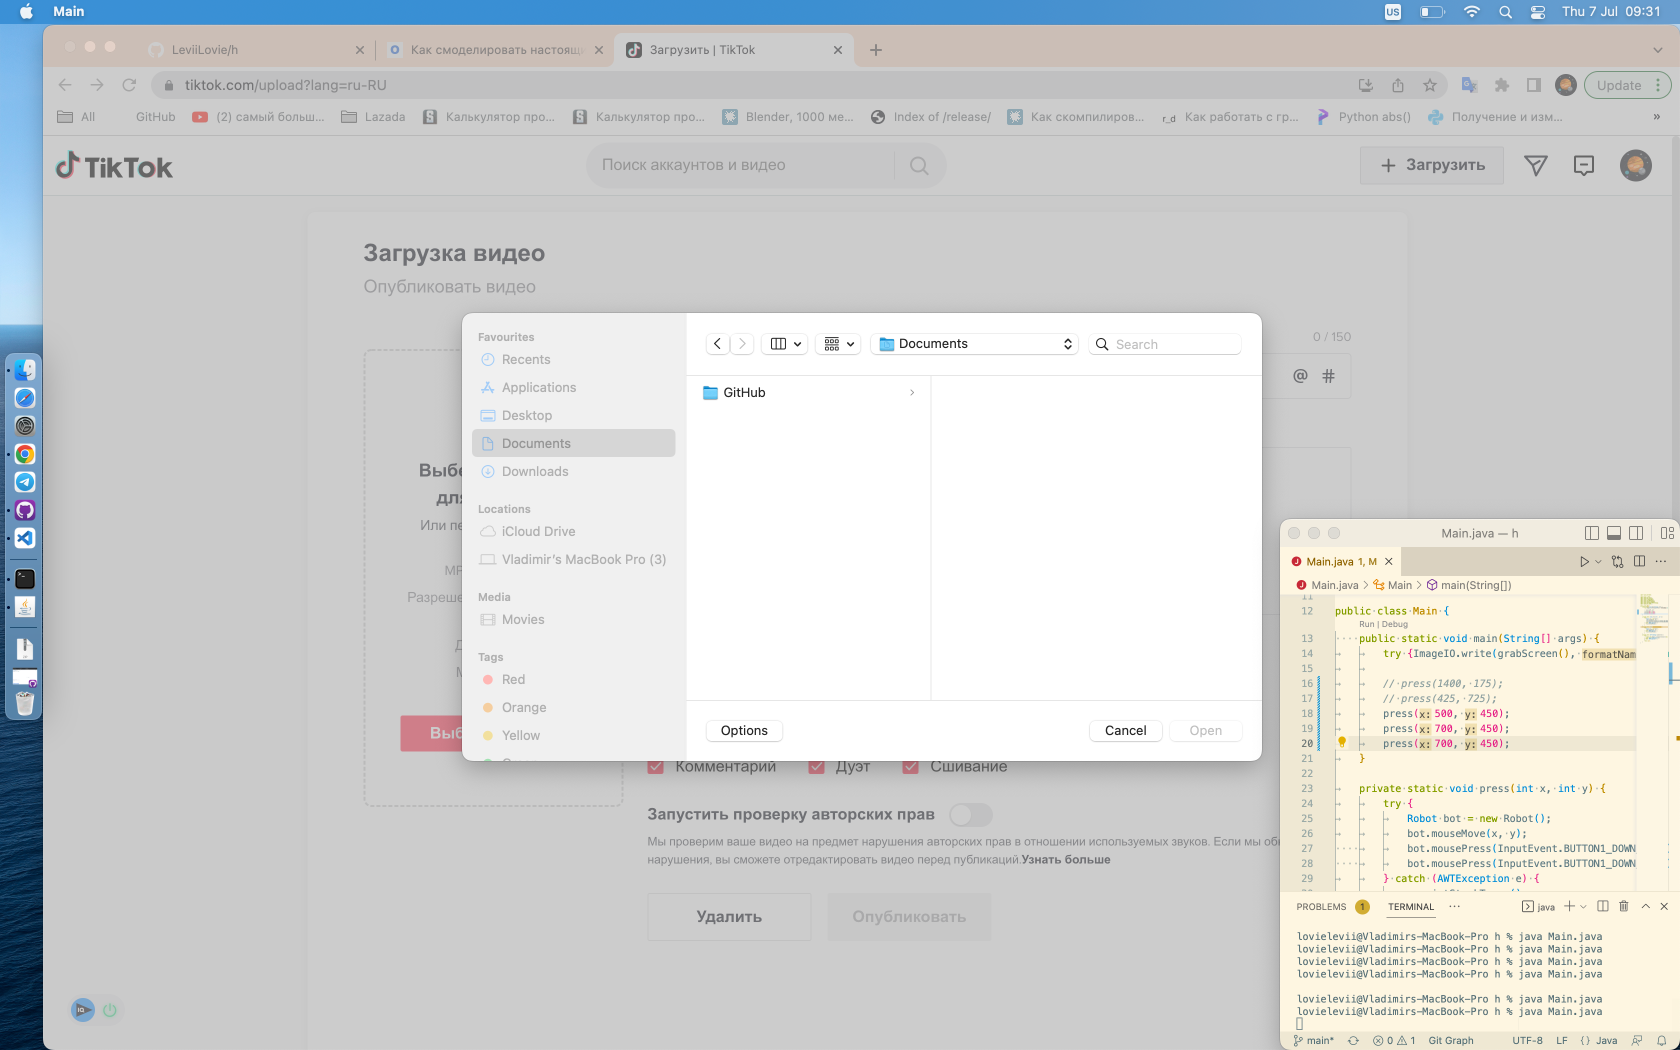
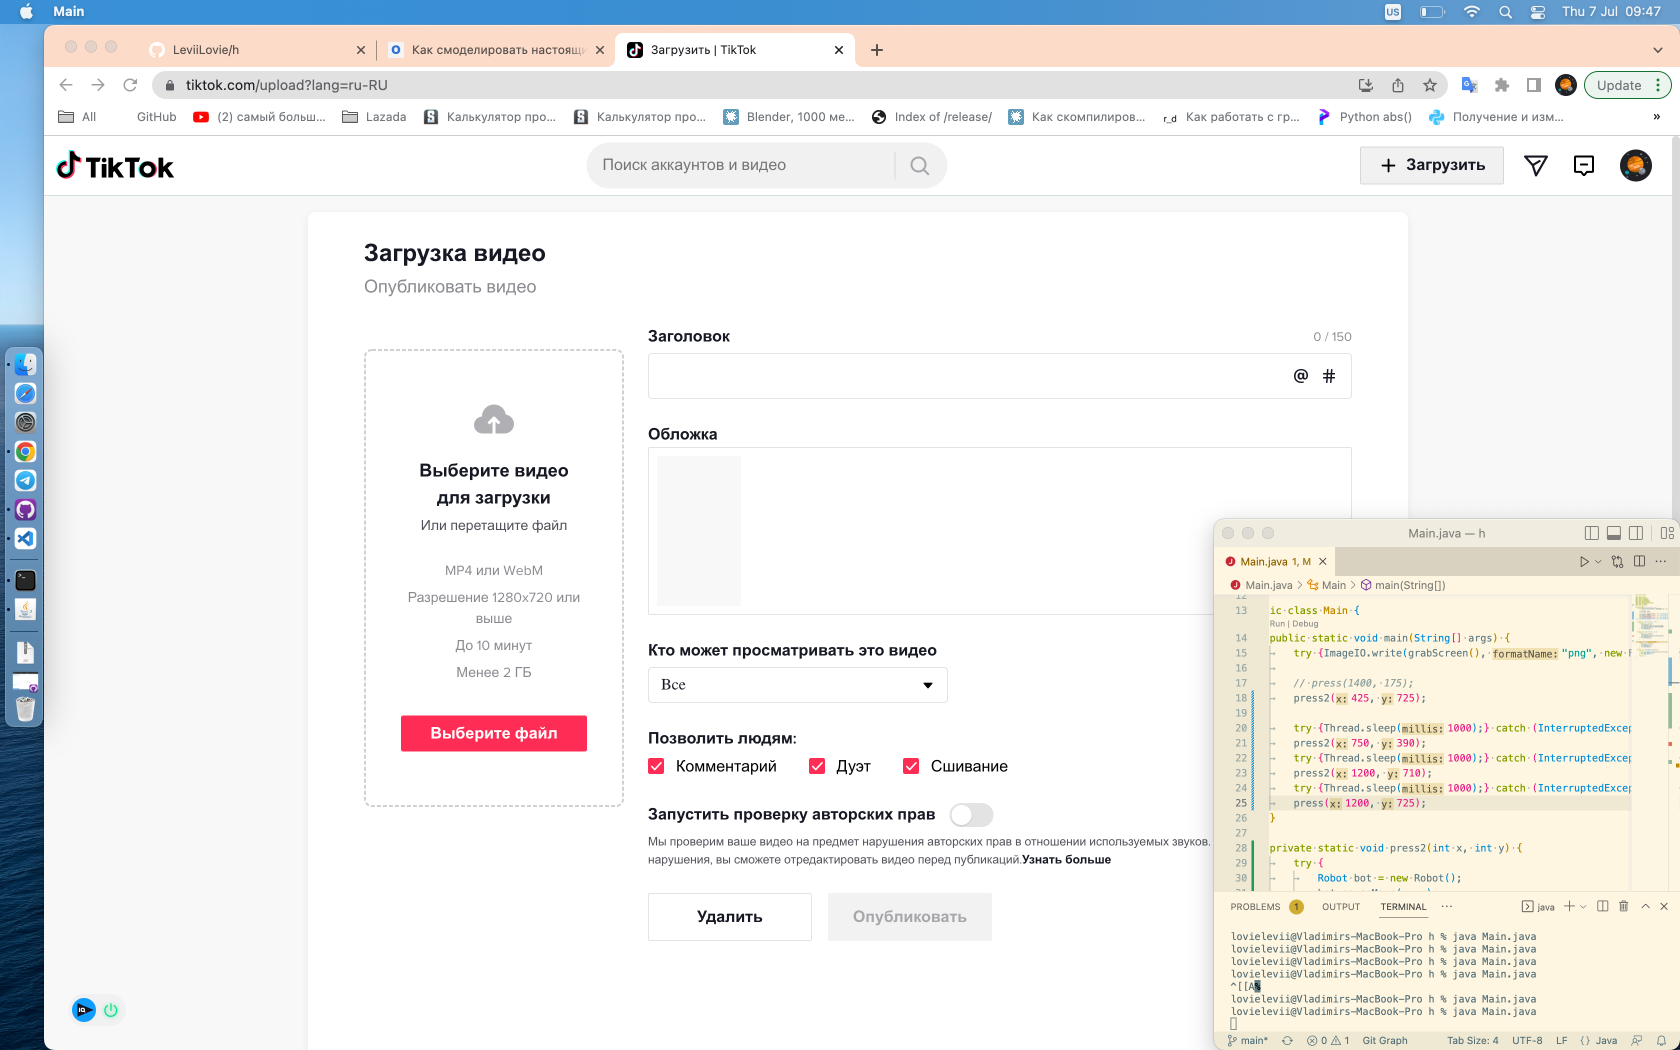
global commit

diff --git a/Main.java b/Main.java
@@ -8,18 +8,24 @@ import java.awt.AWTException;
 import javax.imageio.ImageIO;
 import java.awt.image.BufferedImage;
 import java.awt.event.*;
+import java.lang.Thread;
 
 public class Main {
     public static void main(String[] args) {
 		try {ImageIO.write(grabScreen(), "png", new File("screen.png"));} catch (IOException e) {System.out.println("IO exception"+e);}
 		
 		// press(1400, 175);
-		// press(425, 725);
-		press(500, 450);
-		press(700, 450);
+		press2(425, 725);
+
+		try {Thread.sleep(1000);} catch (InterruptedException e) {e.printStackTrace();}
+		press2(750, 390);
+		try {Thread.sleep(1000);} catch (InterruptedException e) {e.printStackTrace();}
+		press2(1200, 710);
+		try {Thread.sleep(1000);} catch (InterruptedException e) {e.printStackTrace();}
+		press(1200, 725);
 	}
 
-	private static void press(int x, int y) {
+	private static void press2(int x, int y) {
 		try {
 			Robot bot = new Robot();
 			bot.mouseMove(x, y);
@@ -29,6 +35,16 @@ public class Main {
 			e.printStackTrace();
 		}
 	}
+	private static void press(int x, int y) {
+		try {
+			Robot bot = new Robot();
+			bot.mouseMove(x, y);
+    		bot.mousePress(InputEvent.BUTTON1_DOWN_MASK);
+		} catch (AWTException e) {
+			e.printStackTrace();
+		}
+	}
+
 	private static void move(int x, int y) {
 		try {
 			Robot bot = new Robot();
